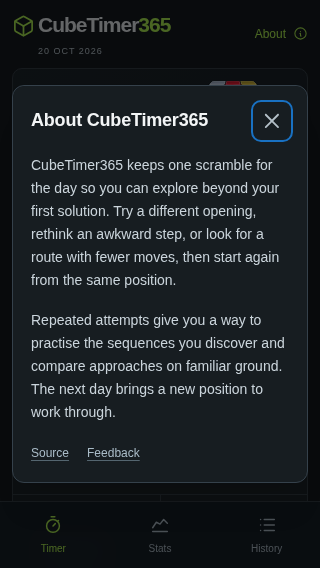
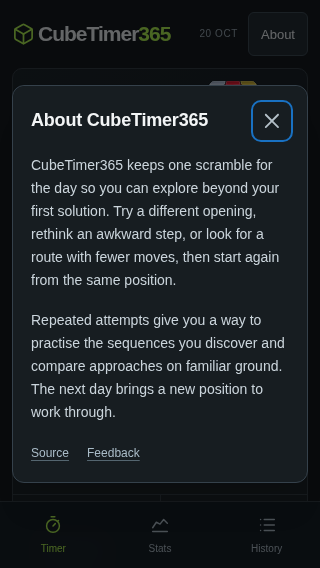
Align About with the date in a compact header

Changed region(s): [[0.0312, 0.0299, 0.5312, 0.0898], [0.8125, 0.0299, 0.9375, 0.0898]]

diff --git a/src/App.css b/src/App.css
@@ -26,13 +26,14 @@ button:focus-visible, a:focus-visible, [role='button']:focus-visible { outline: 
 .lime { color: var(--lime); }
 .muted { color: var(--muted); }
 .app-layout { max-width: 1480px; margin: 0 auto; padding: 0 28px; }
-.app-header { display: flex; align-items: center; gap: 28px; height: 80px; }
+.app-header { display: flex; align-items: center; gap: 16px; height: 80px; }
 .brand { display: flex; gap: 4px; align-items: center; font-size: 24px; font-weight: 750; letter-spacing: -1px; }
 .brand > svg { color: var(--lime); }
-.about-trigger { display: flex; align-items: center; gap: 7px; min-height: 44px; padding: 8px 0 8px 28px; border: 0; border-left: 1px solid var(--border); border-radius: 4px; background: transparent; color: #b4c0c8; font: inherit; font-size: 12px; cursor: pointer; }
-.about-trigger:hover, .about-trigger[aria-expanded='true'] { color: var(--lime); }
+.header-tools { display: flex; align-items: center; gap: 20px; margin-left: auto; flex-shrink: 0; }
+.about-trigger { display: flex; align-items: center; justify-content: center; min-width: 64px; min-height: 44px; padding: 0 12px; border: 1px solid #3b474f; border-radius: 6px; background: transparent; color: #d6dfe5; font: inherit; font-size: 13px; line-height: 1; font-weight: 500; cursor: pointer; }
+.about-trigger:hover, .about-trigger[aria-expanded='true'] { background: #1e262c; color: var(--text); }
 .about-trigger:disabled { color: var(--muted); opacity: 0.45; cursor: default; }
-.app-header time { margin-left: auto; color: #bcc6cd; text-transform: uppercase; font-size: 12px; letter-spacing: 2px; }
+.app-header time { color: var(--muted); text-transform: uppercase; font-size: 11px; letter-spacing: 1px; white-space: nowrap; }
 .practice-grid { display: grid; grid-template-columns: minmax(0, 1fr) 350px; grid-template-rows: 212px 200px 84px auto; gap: 10px; }
 .panel { background: linear-gradient(120deg, #181e22, #14191d); border: 1px solid var(--border); border-radius: 10px; }
 .eyebrow { font-size: 11px; line-height: 1.5; text-transform: uppercase; letter-spacing: 2px; font-weight: 500; margin: 0; color: #c1cbd2; }
@@ -148,11 +149,13 @@ kbd { border: 1px solid #43505a; border-radius: 4px; padding: 4px 7px; font: inh
 @media (width <= 760px) {
   html { scroll-padding-top: 16px; }
   .app-layout { padding: 0 12px 78px; }
-  .app-header { display: grid; grid-template-columns: minmax(0, 1fr) auto; grid-template-rows: auto auto; align-content: center; height: 68px; column-gap: 12px; row-gap: 3px; }
-  .brand { grid-column: 1; grid-row: 1; font-size: 21px; gap: 3px; }
+  .app-header { height: 68px; gap: 12px; }
+  .brand { font-size: 21px; gap: 3px; }
   .brand > svg { width: 23px; }
-  .about-trigger { grid-column: 2; grid-row: 1 / 3; padding: 8px 0 8px 12px; border-left: 0; }
-  .app-header time { grid-column: 1; grid-row: 2; margin-left: 0; padding-left: 26px; font-size: 9px; letter-spacing: 1px; }
+  .header-tools { gap: 10px; }
+  .about-trigger { min-width: 60px; padding: 0 10px; }
+  .app-header time { font-size: 10px; letter-spacing: 0.6px; }
+  .header-year { display: none; }
   .practice-grid { display: flex; flex-direction: column; gap: 10px; }
   .scramble-panel { padding: 12px; gap: 12px; }
   .scramble-moves { font-size: 16px; line-height: 1.5; margin: 8px 0 0; letter-spacing: 0; }

diff --git a/src/App.tsx b/src/App.tsx
@@ -7,7 +7,6 @@ import { LineChart } from "@mantine/charts";
 import { createTheme, MantineProvider, Popover } from "@mantine/core";
 import {
   IconChartLine,
-  IconInfoCircle,
   IconCube,
   IconList,
   IconStopwatch,
@@ -851,25 +850,33 @@ const App: React.FC = () => {
                 CubeTimer<span className="lime">365</span>
               </span>
             </a>
-            <button
-              type="button"
-              className="about-trigger"
-              aria-expanded={aboutOpen}
-              aria-controls="about-cubetimer"
-              aria-haspopup="dialog"
-              disabled={phase !== "idle"}
-              onClick={() => setAboutOpen(true)}
-            >
-              About
-              <IconInfoCircle size={15} stroke={1.7} aria-hidden="true" />
-            </button>
-            <time dateTime={localDateString}>
-              {today.toLocaleDateString("en-GB", {
-                day: "2-digit",
-                month: "short",
-                year: "numeric",
-              })}
-            </time>
+            <div className="header-tools">
+              <time
+                dateTime={localDateString}
+                aria-label={today.toLocaleDateString("en-GB", {
+                  day: "2-digit",
+                  month: "short",
+                  year: "numeric",
+                })}
+              >
+                {today.toLocaleDateString("en-GB", {
+                  day: "2-digit",
+                  month: "short",
+                })}
+                <span className="header-year"> {today.getFullYear()}</span>
+              </time>
+              <button
+                type="button"
+                className="about-trigger"
+                aria-expanded={aboutOpen}
+                aria-controls="about-cubetimer"
+                aria-haspopup="dialog"
+                disabled={phase !== "idle"}
+                onClick={() => setAboutOpen(true)}
+              >
+                About
+              </button>
+            </div>
           </header>
           <About opened={aboutOpen} onClose={closeAbout} />
           <main className="practice-grid">
